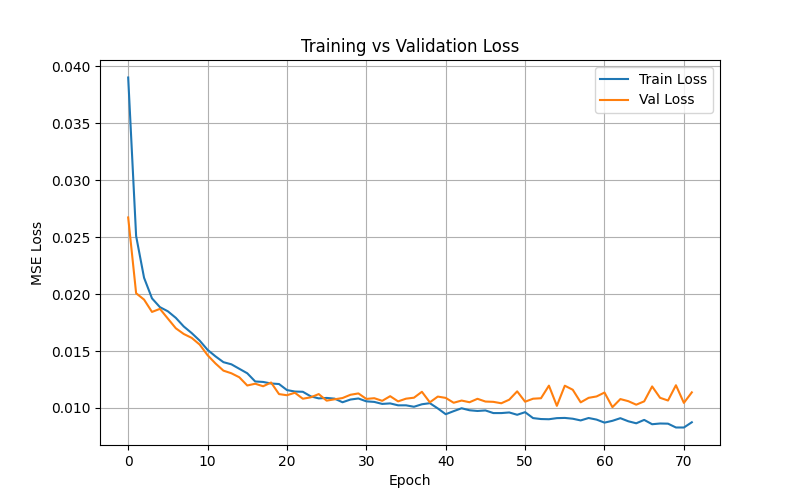
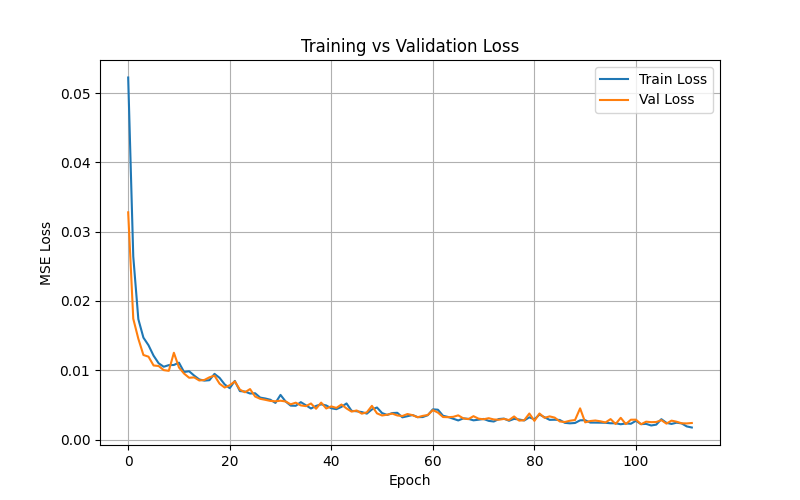
Refined traffic generation and dataset split

diff --git a/network/traffic_gen.py b/network/traffic_gen.py
@@ -85,47 +85,46 @@ def run_traffic_scenario(net: Mininet, duration: int = 60):
 
 def run_training_session(net: Mininet, total_duration: int = 120):
     """
-    Run a structured training session with distinct phases.
+    Run a structured training session with repeating cyclic phases.
     
-    Phases:
-    1. Low traffic 
-    2. Medium traffic 
-    3. High traffic 
-    4. Variable traffic 
+    The phases repeat multiple times so the LSTM can learn the pattern.
     """
     gen = TrafficGenerator(net)
     gen.start_servers()
 
-    phase_duration = total_duration // 4
-    print(f"Training session: {total_duration}s ({phase_duration}s per phase)")
+    # Shorter phases that repeat multiple cycles
+    cycle_duration = 40  # seconds per full cycle
+    num_cycles = total_duration // cycle_duration
+    phase_duration = cycle_duration // 4
 
-    # Phase 1: Low traffic
-    print("Low traffic")
-    for host in gen.hosts:
-        gen._iperf_client(host, duration=phase_duration, bandwidth="100K")
-    time.sleep(phase_duration)
+    print(f"Training session: {total_duration}s ({num_cycles} cycles, {phase_duration}s per phase)")
 
-    # Phase 2: Medium traffic  
-    print("Medium traffic")
-    for host in gen.hosts:
-        gen._iperf_client(host, duration=phase_duration, bandwidth="500K")
-        gen._http_burst(host, requests=5)
-    time.sleep(phase_duration)
+    for cycle in range(num_cycles):
+        print(f"--- Cycle {cycle + 1}/{num_cycles} ---")
 
-    # Phase 3: High traffic
-    print("High traffic")
-    for host in gen.hosts:
-        gen._iperf_client(host, duration=phase_duration, bandwidth="2M")
-    time.sleep(phase_duration)
+        # Phase 1: Low traffic
+        print("  Low traffic")
+        for host in gen.hosts:
+            gen._iperf_client(host, duration=phase_duration, bandwidth="100K")
+        time.sleep(phase_duration)
 
-    # Phase 4: Variable 
-    print("Variable traffic")
-    phase_start = time.time()
-    while time.time() - phase_start < phase_duration:
-        host = random.choice(gen.hosts)
-        bw = random.choice(["300K", "1M", "2M", "4M"])
-        gen._iperf_client(host, duration=3, bandwidth=bw)
-        gen._http_burst(host, requests=random.randint(2, 8))
-        time.sleep(random.uniform(2, 5))
+        # Phase 2: Medium traffic  
+        print("  Medium traffic")
+        for host in gen.hosts:
+            gen._iperf_client(host, duration=phase_duration, bandwidth="500K")
+            gen._http_burst(host, requests=5)
+        time.sleep(phase_duration)
+
+        # Phase 3: High traffic
+        print("  High traffic")
+        for host in gen.hosts:
+            gen._iperf_client(host, duration=phase_duration, bandwidth="2M")
+        time.sleep(phase_duration)
+
+        # Phase 4: Cooldown / transition
+        print("  Cooldown")
+        for host in gen.hosts:
+            gen._iperf_client(host, duration=phase_duration, bandwidth="200K")
+        time.sleep(phase_duration)
 
     print("Training session complete")

diff --git a/app/run_model.py b/app/run_model.py
@@ -36,14 +36,18 @@ if __name__ == "__main__":
     data = retrieve_csv(CONF.csv_path)
     x, y, norm_params = prepare_targets(data, CONF.sequence_length)
 
-    print(
-        f"Splitting data: training->{int(CONF.training_slice*100)}% - validation->{int((100-CONF.training_slice*100))}%."
-    )
+    # Three-way split: train / val / test (no shuffle — time series)
+    train_end = int(len(x) * CONF.training_slice)
+    val_end = int(len(x) * (1 - (1 - CONF.training_slice) / 2))
 
-    # Split x and y values according to params.conf.
-    split = int(len(x) * CONF.training_slice)
-    x_train, x_val = x[:split], x[split:]
-    y_train, y_val = y[:split], y[split:]
+    x_train, y_train = x[:train_end], y[:train_end]
+    x_val, y_val = x[train_end:val_end], y[train_end:val_end]
+    x_test, y_test = x[val_end:], y[val_end:]
+
+    train_pct = len(x_train) * 100 // len(x)
+    val_pct = len(x_val) * 100 // len(x)
+    test_pct = len(x_test) * 100 // len(x)
+    print(f"Split: train={train_pct}% ({len(x_train)}), val={val_pct}% ({len(x_val)}), test={test_pct}% ({len(x_test)})")
 
     # Initialize model and input.
     input = layers.Input(shape=(CONF.sequence_length, 12))
@@ -69,12 +73,17 @@ if __name__ == "__main__":
         callbacks=[early_stop],
     )
 
+    # Evaluate on test set
+    test_loss = model.evaluate(x_test, y_test, verbose=0)
+    print(f"Test loss (unseen data): {test_loss:.6f}")
+
     # Generate plots
     os.makedirs("plots", exist_ok=True)
     plot_loss(history)
 
-    predictions = model.predict(x_val)
-    plot_predictions(y_val, predictions, norm_params["columns"])
+    # Plot predictions on TEST set for an unbiased evaluation
+    test_predictions = model.predict(x_test)
+    plot_predictions(y_test, test_predictions, norm_params["columns"])
 
     # Save model
     os.makedirs(os.path.dirname(CONF.model_path), exist_ok=True)

diff --git a/network/utils.py b/network/utils.py
@@ -24,7 +24,7 @@ def parse_args():
     parser.add_argument(
         "--training",
         action="store_true",
-        help="Debug traffic generator",
+        help="Cyclic stable traffic patterns for training",
     )
     return parser.parse_args()
 

diff --git a/README.md b/README.md
@@ -116,8 +116,8 @@ batch_size = 32
 # (INT) Sequence length for LSTM -> reducing might greatly reduce model performance
 sequence_length = 15
 
-# (FLOAT) Training/validation slice
-training_slice = 0.8
+# (FLOAT) Training slice (remaining is split equally into val and test)
+training_slice = 0.70
 ```
 ## Topology
 This is the topology used for the project, ports are strictly related to switch3.<br><br>
